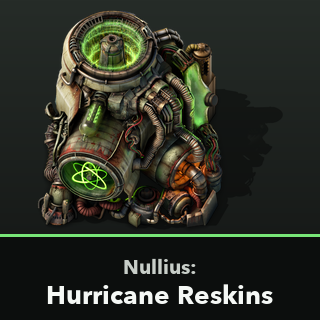
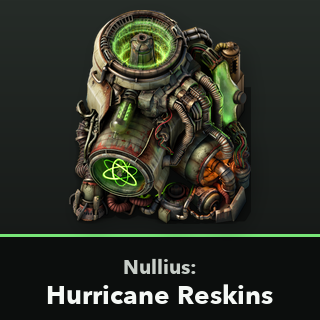
Updated thumbnail

Changed region(s): [[0.125, 0.0312, 0.7812, 0.7188]]

diff --git a/tools/make_thumbnail.py b/tools/make_thumbnail.py
@@ -8,7 +8,7 @@ the title or source art changes.
 Output: thumbnail.png (square, suitable for the Factorio mod portal).
 """
 import os
-from PIL import Image, ImageDraw, ImageFont
+from PIL import Image, ImageDraw, ImageFont, ImageFilter
 
 ROOT = os.path.dirname(os.path.dirname(os.path.abspath(__file__)))
 SRC = os.path.join(ROOT, "sprites/atom-forge/preview/atom-forge-preview-static.png")
@@ -37,6 +37,25 @@ def load_font(size, bold=True):
     return ImageFont.load_default()
 
 
+def solid_bbox(art, thresh=170):
+    """Bounding box of the opaque building only, ignoring the faint detached
+    shadow in the source art (which has low alpha). Falls back to the full
+    bbox if nothing clears the threshold."""
+    alpha = art.getchannel("A")
+    mask = alpha.point(lambda a: 255 if a >= thresh else 0)
+    return mask.getbbox() or art.getbbox()
+
+
+def drop_shadow(art, blur=9, offset=(6, 8), opacity=130):
+    """A soft black silhouette of the art, blurred and offset, for grounding."""
+    pad = blur * 2
+    layer = Image.new("RGBA", (art.width + pad * 2, art.height + pad * 2), (0, 0, 0, 0))
+    sil = Image.new("RGBA", art.size, (0, 0, 0, 0))
+    sil.putalpha(art.getchannel("A").point(lambda a: opacity if a >= 170 else 0))
+    layer.paste(sil, (pad + offset[0], pad + offset[1]), sil)
+    return layer.filter(ImageFilter.GaussianBlur(blur)), pad
+
+
 def vertical_gradient(size, top, bottom):
     base = Image.new("RGB", (1, size), 0)
     for y in range(size):
@@ -54,17 +73,20 @@ def main():
     draw.rectangle([0, SIZE - band_h, SIZE, SIZE], fill=(12, 14, 13, 235))
     draw.rectangle([0, SIZE - band_h, SIZE, SIZE - band_h + 2], fill=ACCENT + (255,))
 
-    # Building art: crop to content, scale to fit the art area above the band.
+    # Building art: crop to the *building* (not its detached shadow), scale to
+    # fit the art area above the band, and center it.
     art = Image.open(SRC).convert("RGBA")
-    bbox = art.getbbox()
-    if bbox:
-        art = art.crop(bbox)
+    art = art.crop(solid_bbox(art))
     art_area_h = SIZE - band_h
-    max_w, max_h = SIZE - 24, art_area_h - 12
+    max_w, max_h = SIZE - 36, art_area_h - 20
     scale = min(max_w / art.width, max_h / art.height)
     art = art.resize((max(1, int(art.width * scale)), max(1, int(art.height * scale))), Image.LANCZOS)
     ax = (SIZE - art.width) // 2
-    ay = (art_area_h - art.height) // 2 + 4
+    ay = (art_area_h - art.height) // 2
+
+    # Soft grounding shadow beneath the building.
+    shadow, pad = drop_shadow(art)
+    canvas.alpha_composite(shadow, (ax - pad, ay - pad))
     canvas.alpha_composite(art, (ax, ay))
 
     # Title, two lines centered in the band.